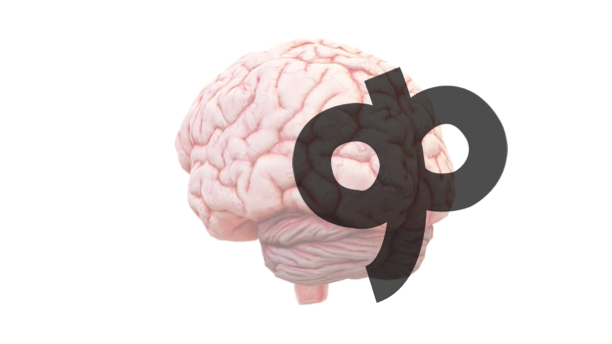
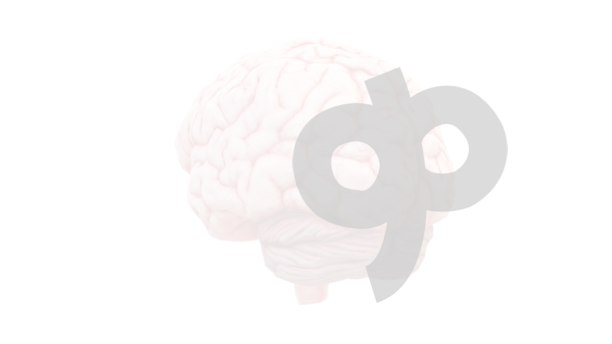
added bg everywhere

Changed region(s): [[0.2794, 0.1163, 0.8382, 0.9012]]

diff --git a/bg_img.css b/bg_img.css
@@ -2,6 +2,6 @@ body {
   background-image: url('/files/phi_brain.png');
   background-repeat: no-repeat;
   background-attachment: fixed;
-  background-size: 100% 100%;
+  background-size: 50% 50%;
   
 }

diff --git a/personal_web/_site/bg_img.css b/personal_web/_site/bg_img.css
@@ -2,6 +2,6 @@ body {
   background-image: url('/files/phi_brain.png');
   background-repeat: no-repeat;
   background-attachment: fixed;
-  background-size: 100% 100%;
+  background-size: 50% 50%;
   
 }

diff --git a/personal_web/bg_img.css b/personal_web/bg_img.css
@@ -2,6 +2,6 @@ body {
   background-image: url('/files/phi_brain.png');
   background-repeat: no-repeat;
   background-attachment: fixed;
-  background-size: 100% 100%;
+  background-size: 50% 50%;
   
 }

diff --git a/affiliation.html b/affiliation.html
@@ -57,6 +57,7 @@ if (window.hljs) {
 
 
 
+<link rel="stylesheet" href="bg_img.css" type="text/css" />
 
 
 

diff --git a/awards.html b/awards.html
@@ -57,6 +57,7 @@ if (window.hljs) {
 
 
 
+<link rel="stylesheet" href="bg_img.css" type="text/css" />
 
 
 

diff --git a/contact.html b/contact.html
@@ -57,6 +57,7 @@ if (window.hljs) {
 
 
 
+<link rel="stylesheet" href="bg_img.css" type="text/css" />
 
 
 

diff --git a/personal_web/_site/affiliation.html b/personal_web/_site/affiliation.html
@@ -57,6 +57,7 @@ if (window.hljs) {
 
 
 
+<link rel="stylesheet" href="bg_img.css" type="text/css" />
 
 
 

diff --git a/personal_web/_site/awards.html b/personal_web/_site/awards.html
@@ -57,6 +57,7 @@ if (window.hljs) {
 
 
 
+<link rel="stylesheet" href="bg_img.css" type="text/css" />
 
 
 

diff --git a/personal_web/_site/contact.html b/personal_web/_site/contact.html
@@ -57,6 +57,7 @@ if (window.hljs) {
 
 
 
+<link rel="stylesheet" href="bg_img.css" type="text/css" />
 
 
 

diff --git a/personal_web/_site/projects.html b/personal_web/_site/projects.html
@@ -57,6 +57,7 @@ if (window.hljs) {
 
 
 
+<link rel="stylesheet" href="bg_img.css" type="text/css" />
 
 
 

diff --git a/personal_web/_site/publications.html b/personal_web/_site/publications.html
@@ -57,6 +57,7 @@ if (window.hljs) {
 
 
 
+<link rel="stylesheet" href="bg_img.css" type="text/css" />
 
 
 

diff --git a/projects.html b/projects.html
@@ -57,6 +57,7 @@ if (window.hljs) {
 
 
 
+<link rel="stylesheet" href="bg_img.css" type="text/css" />
 
 
 
